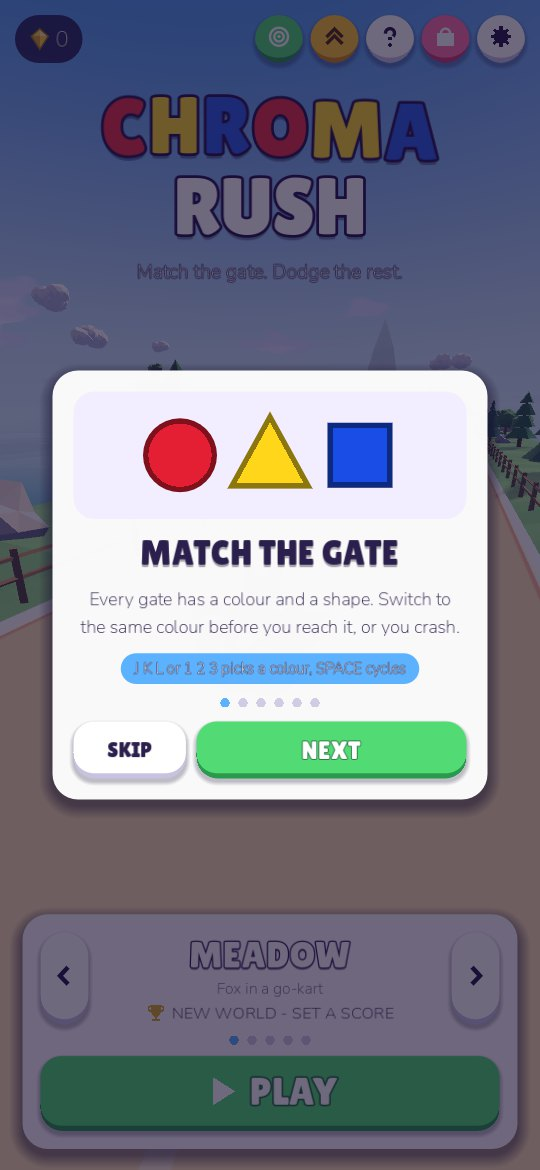
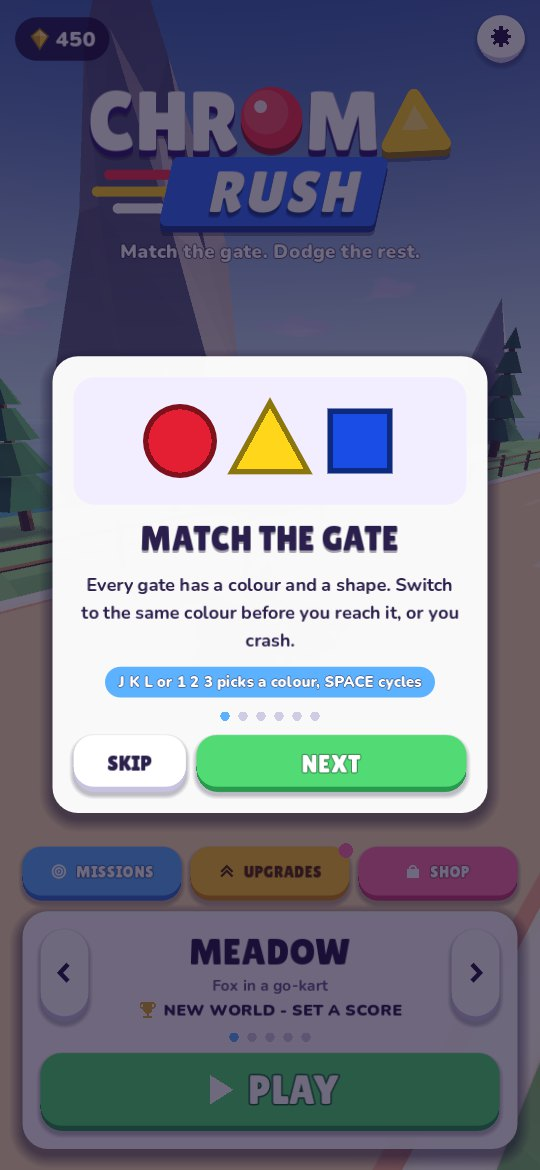
Document the interface rules; refresh the phone screenshots
README screenshots show the new logo, home dock, results scoreboard and
bolder text. docs/game-design.md gains an Interface section: score as
the hero, actions in thumb reach, minimum text size, how lists scroll,
and what the logo and icon are made of.

diff --git a/README.md b/README.md
@@ -22,7 +22,7 @@ Every world has its own vehicle and driver, built from smooth moulded shapes. Pa
 
 ### On a phone
 
-Home, in-run HUD, results, missions, upgrades and shop, in portrait:
+Home, in-run HUD, results, missions, upgrades and settings, in portrait:
 
 ![Phone screens](docs/screenshots/phone-screens.jpg)
 
@@ -77,7 +77,7 @@ Three goals at a time, such as "pass 30 gates in one run" or "collect 140 orbs".
 - **Five worlds**: Meadow, Glacier, Canyon, Volcano and Solar System, each with its own sky, scenery, landmarks, obstacles, gate arch, vehicle and driver.
 - **Readable for everyone**: one colour set in every world, chosen to stay distinct under protanopia, deuteranopia and tritanopia, plus a shape per colour.
 - **Endless and stable**: the track is generated as you drive, with bounded memory and a floating origin, so a 60 km run uses the same memory as a 1 km run.
-- **Full navigation**: home screen with world picker, how to play, pause, results, settings, shop, and the Android back button.
+- **Full navigation**: home screen with a dock (missions, upgrades, shop) and world picker, how to play, pause, a scoreboard-style results screen, settings, and the Android back button. Lists scroll from anywhere a finger lands, and overlays close on a tap outside.
 - **A soft, modern low-poly look**: no dark outlines; shapes are separated by rim light, glow and soft shadows. Glass gates, glossy gems, a calm road with light lane dashes and low kerbs, linear colour with soft bloom.
 - **Smooth motion**: the vehicle glides between lanes, leans, squashes and pops on springs, with its wheels on the road; pickups and gates throw sparkles.
 - **Progression**: shards from orbs, distance and missions buy upgrades and unlock new worlds; Phoenix gems bank free revives; best score per world; lifetime stats.
@@ -119,7 +119,7 @@ scripts/
   themes.gd, defs.gd      World definitions, colours and tuning
   audio.gd                Synthesised sound effects and music
   services/               Settings, Profile (save), Missions, Store (IAP), Ads, Economy
-  ui/                     UI toolkit, icons, screens and navigation
+  ui/                     UI toolkit, icons, the logo, screens and navigation
   dev/                    Developer harness, flow test, path check, icon renderer (not shipped)
 shaders/                  Soft surface, glass, road, gate panel, gem, road patch, shield bubble, hazard, sky
 fonts/                    Lilita One and Nunito, with their licences

diff --git a/docs/game-design.md b/docs/game-design.md
@@ -196,6 +196,14 @@ The art is low-poly, but it should read as a modern, soft, toy-like game, not as
 - **Linear tone mapping and soft bloom**, so the authored colours stay vivid and bright things glow.
 - **Motion on springs.** The wheels stay on the road; the body above them leans into lane changes, squashes on landing and pops on a colour change, all as spring impulses. Nothing snaps, blinks or buzzes.
 
+### Interface
+
+- **The score is the hero.** The results screen is a scoreboard, not a form: the score straight on the scene, one card with three numbers, the missions as rings and one line for what the shards are building towards, then at most one row of offers and RETRY.
+- **Actions in thumb reach.** The home screen keeps shards and settings in the top corners and puts MISSIONS, UPGRADES, SHOP and PLAY at the bottom.
+- **Readable.** Body text is bold (Nunito 700 to 900) and nothing is smaller than 18 canvas pixels, about 9 pt on a phone. Numbers that matter use the title font.
+- **Lists scroll from anywhere.** A list built with `UiScreen.scroll_list()` scrolls when dragged by a row or a button, not only by the gaps (see `UiKit.pass_touches`); a 12 px dead zone keeps taps from nudging it. Overlays that are a card of options close on a tap outside the card, and cards pop in.
+- **The logo uses the game's own pieces.** White CHROMA on a deep lip with the red orb as the O and the yellow triangle as the A; RUSH on a blue ribbon with speed streaks. It is drawn in code (`scripts/ui/logo.gd`). The app icon (`icons/icon.svg`) shows the same three shapes, glossy and without outlines.
+
 ### Performance
 
 Measured in Meadow on the desktop renderer, portrait, about four samples each:
